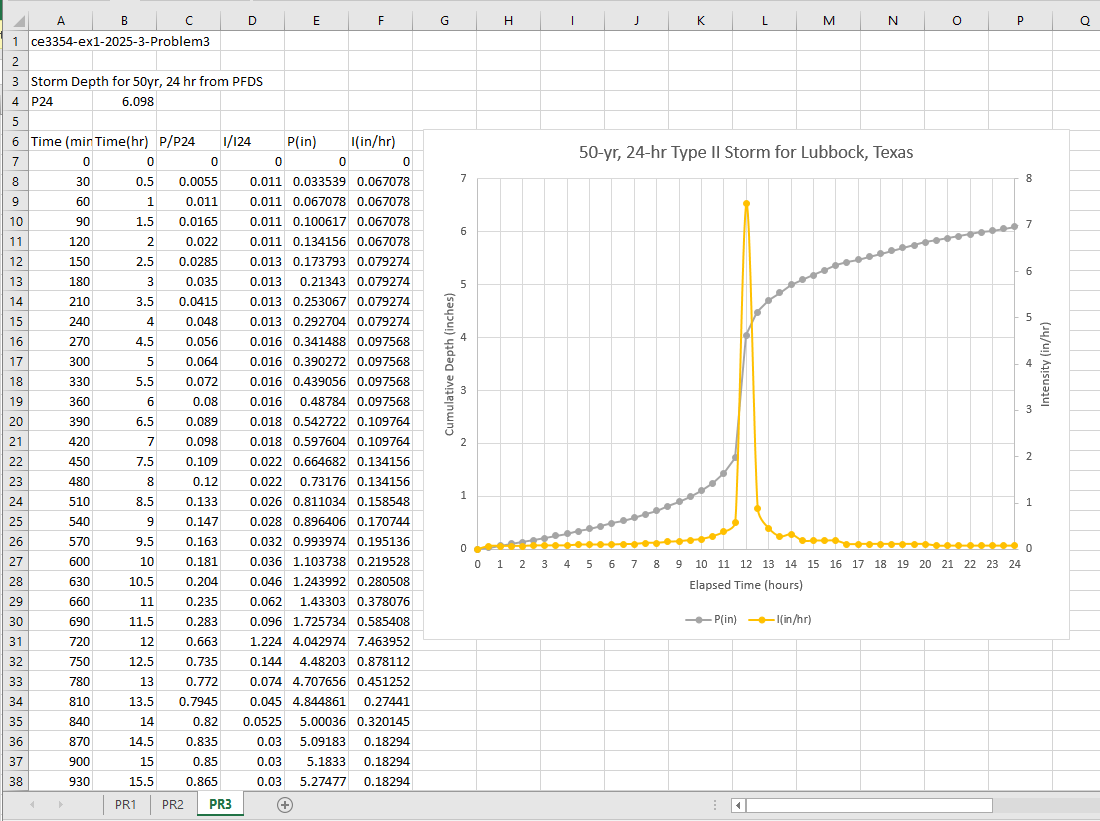
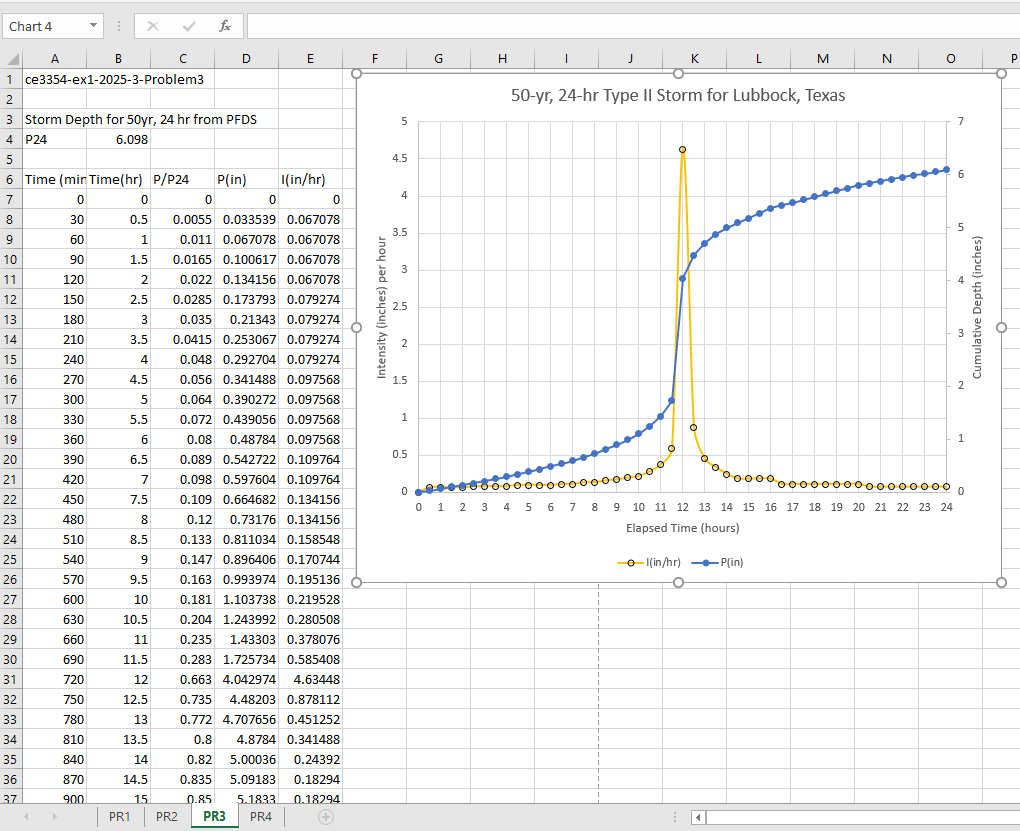
exam solution update

diff --git a/hydrohandbook/exams/.ipynb_checkpoints/ce-3354-ex1-2025-3-SOLN-checkpoint.tex b/hydrohandbook/exams/.ipynb_checkpoints/ce-3354-ex1-2025-3-SOLN-checkpoint.tex
@@ -255,7 +255,7 @@ The output of the script is loaded into a spreadsheet to make the necessary comp
    \label{fig:pr3_xls}
 \end{figure}
 
-Item b) based on differencing an interpolated NRCS storm, the intensity for each 1/2 hour is the column labeled I(in/hr) (rightmost in the figure), the maximum value in the spreadsheet, Item c) is 7.46 in/hr.\footnote{If you did not actually make the calculations and instead just reported the 30-min intensity from the PFDS, that value is 5.04 in/hour -- partial credit for reporting this value}
+Item b) based on differencing an interpolated NRCS storm, the intensity for each 1/2 hour is the column labeled I(in/hr) (rightmost in the figure), the maximum value in the spreadsheet, Item c) is 4.63 in/hr.\footnote{If you did not actually make the calculations and instead just reported the 30-min intensity from the PFDS, that value is 5.04 in/hour -- partial credit for reporting this value}
 
 Figure \ref{fig:pr3_xls} is a screen capture of the spreadsheet as formulas.
 

diff --git a/hydrohandbook/exams/ce-3354-ex1-2025-3-SOLN.tex b/hydrohandbook/exams/ce-3354-ex1-2025-3-SOLN.tex
@@ -255,7 +255,7 @@ The output of the script is loaded into a spreadsheet to make the necessary comp
    \label{fig:pr3_xls}
 \end{figure}
 
-Item b) based on differencing an interpolated NRCS storm, the intensity for each 1/2 hour is the column labeled I(in/hr) (rightmost in the figure), the maximum value in the spreadsheet, Item c) is 7.46 in/hr.\footnote{If you did not actually make the calculations and instead just reported the 30-min intensity from the PFDS, that value is 5.04 in/hour -- partial credit for reporting this value}
+Item b) based on differencing an interpolated NRCS storm, the intensity for each 1/2 hour is the column labeled I(in/hr) (rightmost in the figure), the maximum value in the spreadsheet, Item c) is 4.63 in/hr.\footnote{If you did not actually make the calculations and instead just reported the 30-min intensity from the PFDS, that value is 5.04 in/hour -- partial credit for reporting this value}
 
 Figure \ref{fig:pr3_xls} is a screen capture of the spreadsheet as formulas.
 
